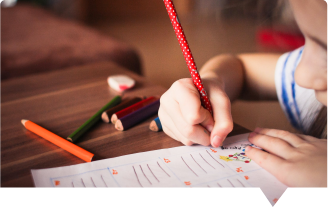
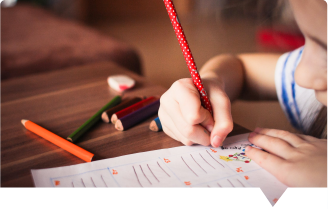
hoogte правки

diff --git a/resources/assets/styles/common/hoogte.scss b/resources/assets/styles/common/hoogte.scss
@@ -36,7 +36,7 @@
   }
   &__miniature {
     position: relative;
-    min-height: 344.8px;
+    min-height: 346px;
     height: 100%;
     display: flex;
     flex-direction: column;
@@ -50,7 +50,7 @@
       height: 207px;
       max-width: 328px;
       width: 100%;
-      z-index: -1;
+      z-index: 1;
       overflow: hidden;
       position: absolute;
       top: 0;
@@ -63,7 +63,7 @@
       }
     }
     .miniature__content {
-      padding: 3px 24px 25px 31px;
+      padding: 4px 24px 25px 31px;
       background-color: #fff;
       position: relative;
       border-bottom-right-radius: 5px;
@@ -106,13 +106,13 @@
     }
   }
   &__miniature:nth-of-type(1) .miniature__bg {
-    background: url("images/hoogte/firework.jpg");
+    background: url("images/hoogte/firework3.png");
   }
   &__miniature:nth-of-type(2) .miniature__bg {
-    background: url("images/hoogte/childdraw.jpg");
+    background: url("images/hoogte/childdraw.png");
   }
   &__miniature:nth-of-type(3) .miniature__bg {
-    background: url("images/hoogte/childdraw2.jpg");
+    background: url("images/hoogte/childdraw2.png");
   }
   &__button {
     display: flex;
